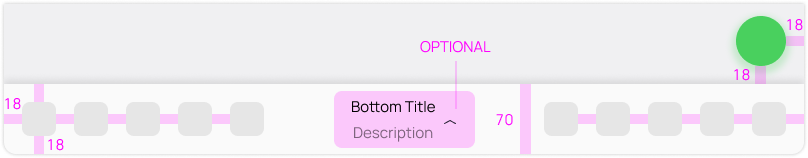
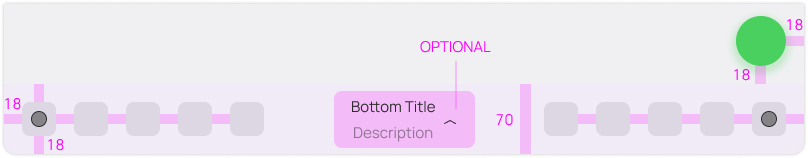
Update bottom bar

Changed region(s): [[0.4332, 0.6329, 0.5569, 0.7089], [0.9282, 0.7089, 0.9592, 0.8101], [0.0309, 0.7089, 0.0619, 0.8101]]

diff --git a/docs/hig/patterns/bottom_bar.md b/docs/hig/patterns/bottom_bar.md
@@ -10,6 +10,8 @@ A Bottom Bar is used to store all the action buttons that the View needs and opt
 
 The title can be an album's name, a folder's name, etc. while the description is strictly used to showcase how many items is in the View or an important status message.
 
+A Bottom Bar also has by default a background that takes in the accent c olor of your app in a very light form, so your branding has one more place to shine through.
+
 ## Geometry
 
 ![](/assets/bottom-bar-geo.png)
